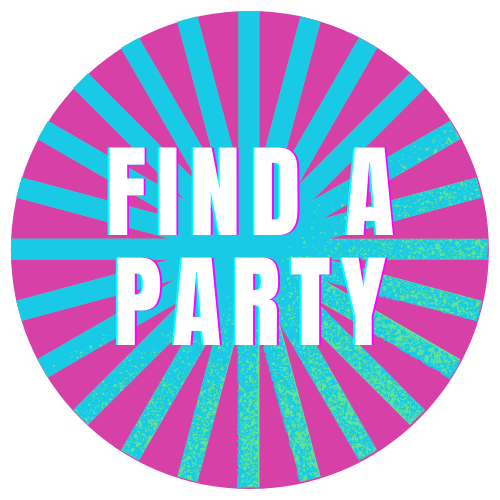
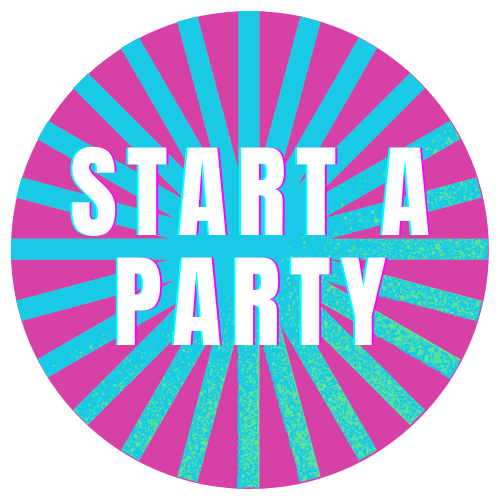
updates to front end

Changed region(s): [[0.12, 0.27, 0.87, 0.48]]

diff --git a/vue/src/components/Nav.vue b/vue/src/components/Nav.vue
@@ -1,15 +1,21 @@
 <template>
 <div id="nav">
     <div>
-        <img src="retroplay_logo_horizontal_transp.png" class="logo">
+        <router-link v-bind:to="{ name: 'home' }"><img src="retroplay_logo_horizontal_transp.png" class="logo"></router-link>
+    </div>
+    <div class="searchbar">
+        <text area></text>
     </div>
     <div class="dropdown">
-        <button onclick="myFunction()" class="dropbtn">Manage Account</button>
+        <button v-on:click="myFunction()" class="dropbtn">Manage Account</button>
             <div id="myDropdown" class="dropdown-content">
-                <a href="#">Link 1</a>
-                <a href="#">Link 2</a>
-                <a href="#">Link 3</a>
-             </div>
+                <router-link v-bind:to="{ name: 'login' }" v-if="$store.state.token == ''">Login</router-link>
+                <router-link v-bind:to="{ name: 'login' }">Login</router-link>
+                <router-link v-bind:to="{ name: 'home' }">Home</router-link>
+                <router-link v-bind:to="{ name: 'register' }" v-if="$store.state.token == ''">Register</router-link>
+                <router-link v-bind:to="{ name: 'login'  }">Login</router-link>
+                <router-link v-bind:to="{ name: 'logout' }" v-if="$store.state.token != ''">Logout</router-link>
+            </div>
     </div>
 </div>
 </template>
@@ -18,6 +24,24 @@
 <script>
 export default {
     name: "nav-bar",
+    methods: {
+        myFunction() {
+             document.getElementById("myDropdown").classList.toggle("show");
+        },
+        function(event) {
+             if (!event.target.matches('.dropbtn')) {
+                var dropdowns = document.getElementsByClassName("dropdown-content");
+                var i;
+                for (i = 0; i < dropdowns.length; i++) {
+                var openDropdown = dropdowns[i];
+                if (openDropdown.classList.contains('show')) {
+                    openDropdown.classList.remove('show');
+      }
+    }
+  }
+}
+
+    },
 
     data() {
         return {
@@ -29,27 +53,24 @@ export default {
 
 /* When the user clicks on the button,
 toggle between hiding and showing the dropdown content */
-//function myFunction() {
- // document.getElementById("myDropdown").classList.toggle("show");
-//}
 
-// Close the dropdown menu if the user clicks outside of it
-window.onclick = function(event) {
-  if (!event.target.matches('.dropbtn')) {
-    var dropdowns = document.getElementsByClassName("dropdown-content");
-    var i;
-    for (i = 0; i < dropdowns.length; i++) {
-      var openDropdown = dropdowns[i];
-      if (openDropdown.classList.contains('show')) {
-        openDropdown.classList.remove('show');
-      }
-    }
-  }
-}
+
+//Close the dropdown menu if the user clicks outside of it
+// window.onclick = function(event) {
+//   if (!event.target.matches('.dropbtn')) {
+//     var dropdowns = document.getElementsByClassName("dropdown-content");
+//     var i;
+//     for (i = 0; i < dropdowns.length; i++) {
+//       var openDropdown = dropdowns[i];
+//       if (openDropdown.classList.contains('show')) {
+//         openDropdown.classList.remove('show');
+//       }
+//     }
+//   }
+// }
 
 
 </script>
-
 
 <style>
 #nav {
@@ -70,27 +91,24 @@ window.onclick = function(event) {
     flex-basis: 0%;
 }
 
-div {
+/* div {
     border-style: solid;
-}
-
-h1 {
-    color: pink;
-}
+} */
 
 /* Dropdown Button */
 .dropbtn {
-  background-color: #3498DB;
+  background-color: #18CAE6;
   color: white;
   padding: 16px;
   font-size: 16px;
   border: none;
   cursor: pointer;
+  border-radius: 15px;
 }
 
 /* Dropdown button on hover & focus */
 .dropbtn:hover, .dropbtn:focus {
-  background-color: #2980B9;
+  background-color: #61E294;
 }
 
 /* The container <div> - needed to position the dropdown content */
@@ -108,20 +126,20 @@ h1 {
   position: absolute;
   background-color: #f1f1f1;
   min-width: 160px;
-  box-shadow: 0px 8px 16px 0px rgba(0,0,0,0.2);
+  box-shadow: 0px 8px 16px 0px #000022;
   z-index: 1;
 }
 
 /* Links inside the dropdown */
 .dropdown-content a {
-  color: black;
+  color:#000022;
   padding: 12px 16px;
   text-decoration: none;
   display: block;
 }
 
 /* Change color of dropdown links on hover */
-.dropdown-content a:hover {background-color: #ddd}
+.dropdown-content a:hover {background-color: #ddd;}
 
 /* Show the dropdown menu (use JS to add this class to the .dropdown-content container when the user clicks on the dropdown button) */
 .show {display:block;}

diff --git a/vue/src/views/Login.vue b/vue/src/views/Login.vue
@@ -12,32 +12,40 @@
         role="alert"
         v-if="this.$route.query.registration"
       >Thank you for registering, please sign in.</div>
-      <label for="username" class="sr-only">Username</label>
+      <br>
+      <label for="username" class="sr-only">Username:  </label>
       <input
         type="text"
         id="username"
-        class="form-control"
+        class="form-control userpass"
         placeholder="Username"
         v-model="user.username"
         required
         autofocus
       />
-      <label for="password" class="sr-only">Password</label>
+      <br>
+      <br>
+      <label for="password" class="sr-only">Password:  </label>
       <input
         type="password"
         id="password"
-        class="form-control"
+        class="form-control userpass"
         placeholder="Password"
         v-model="user.password"
         required
       />
-      <router-link :to="{ name: 'register' }">Need an account?</router-link>
-      <button type="submit">Sign in</button>
+      <br>
+      <br>
+      <button type="submit" class="loginbtn">Sign in</button>
+      <br>
+      <br>
+      <router-link :to="{ name: 'register' }"><button class="registerbtn">Need an account?</button></router-link>
     </form>
   </div>
 </template>
 
 <script>
+
 import authService from "../services/AuthService";
 
 export default {
@@ -74,3 +82,48 @@ export default {
   }
 };
 </script>
+
+<style>
+.text-center {
+  align-content: center;
+  text-align: center;
+}
+
+.loginbtn {
+  background-color: #18CAE6;
+  color: white;
+  padding: 10px;
+  font-size: 16px;
+  border: none;
+  cursor: pointer;
+  border-radius: 15px;
+}
+
+.loginbtn:hover, .loginbtn:focus {
+  background-color: #61E294;
+}
+
+.registerbtn {
+  background-color: #D741A7;
+  color: white;
+  padding: 10px;
+  font-size: 16px;
+  border: none;
+  cursor: pointer;
+  border-radius: 15px;
+}
+
+.registerbtn:hover, .registerbtn:focus {
+  background-color: #61E294;
+}
+
+.userpass {
+    width: 300px;  
+    height: 30px;  
+    border: none;  
+    border-radius: 3px;  
+    padding-left: 8px;
+}
+
+
+</style>

diff --git a/vue/src/views/Home.vue b/vue/src/views/Home.vue
@@ -2,7 +2,8 @@
   <div class="home">
     <div class="partylinks">
       <img src="findparty.png" class="party">
-      <img src="startparty.png" class="party">
+      <router-link v-bind:to="{ name: 'createEvent' }">
+      <img src="startparty.png" class="party"></router-link>
     </div>
       <iframe src="https://open.spotify.com/embed/playlist/37i9dQZF1DXaXB8fQg7xif?utm_source=generator&theme=0" 
     width="380" height="450" frameBorder="0" allowfullscreen="" allow="autoplay; clipboard-write; encrypted-media; fullscreen; picture-in-picture"></iframe>

diff --git a/vue/src/views/CreateEvent.vue b/vue/src/views/CreateEvent.vue
@@ -1,0 +1,5 @@
+<template>
+    <div>
+        <h1>WE'RE GONNA START A PARTY!!!</h1>
+    </div>
+</template>
